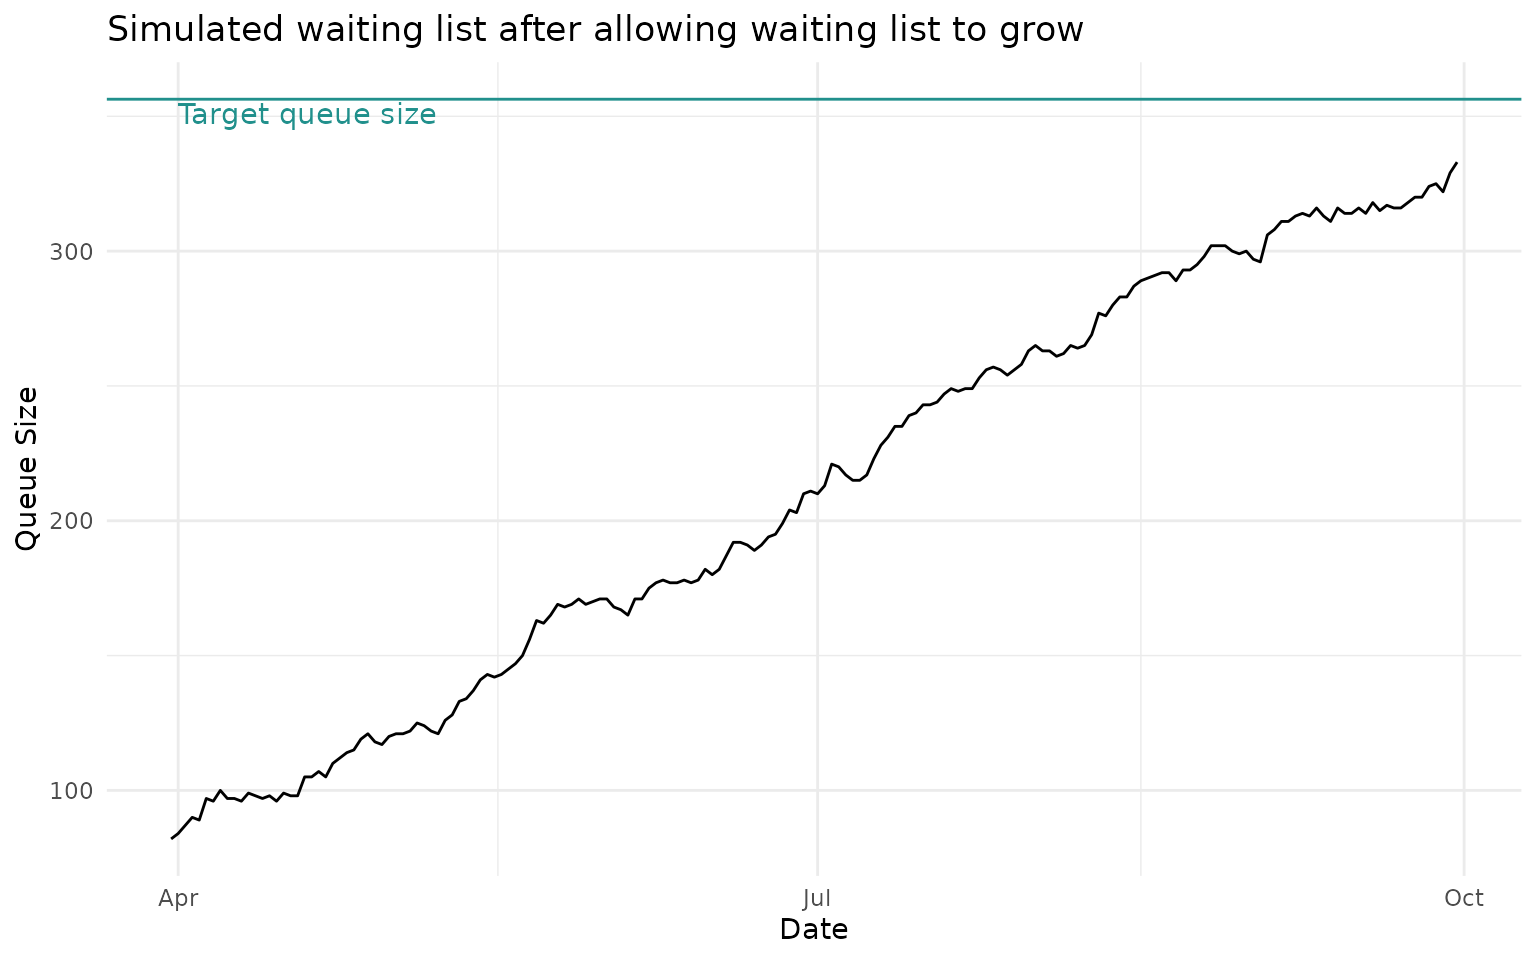
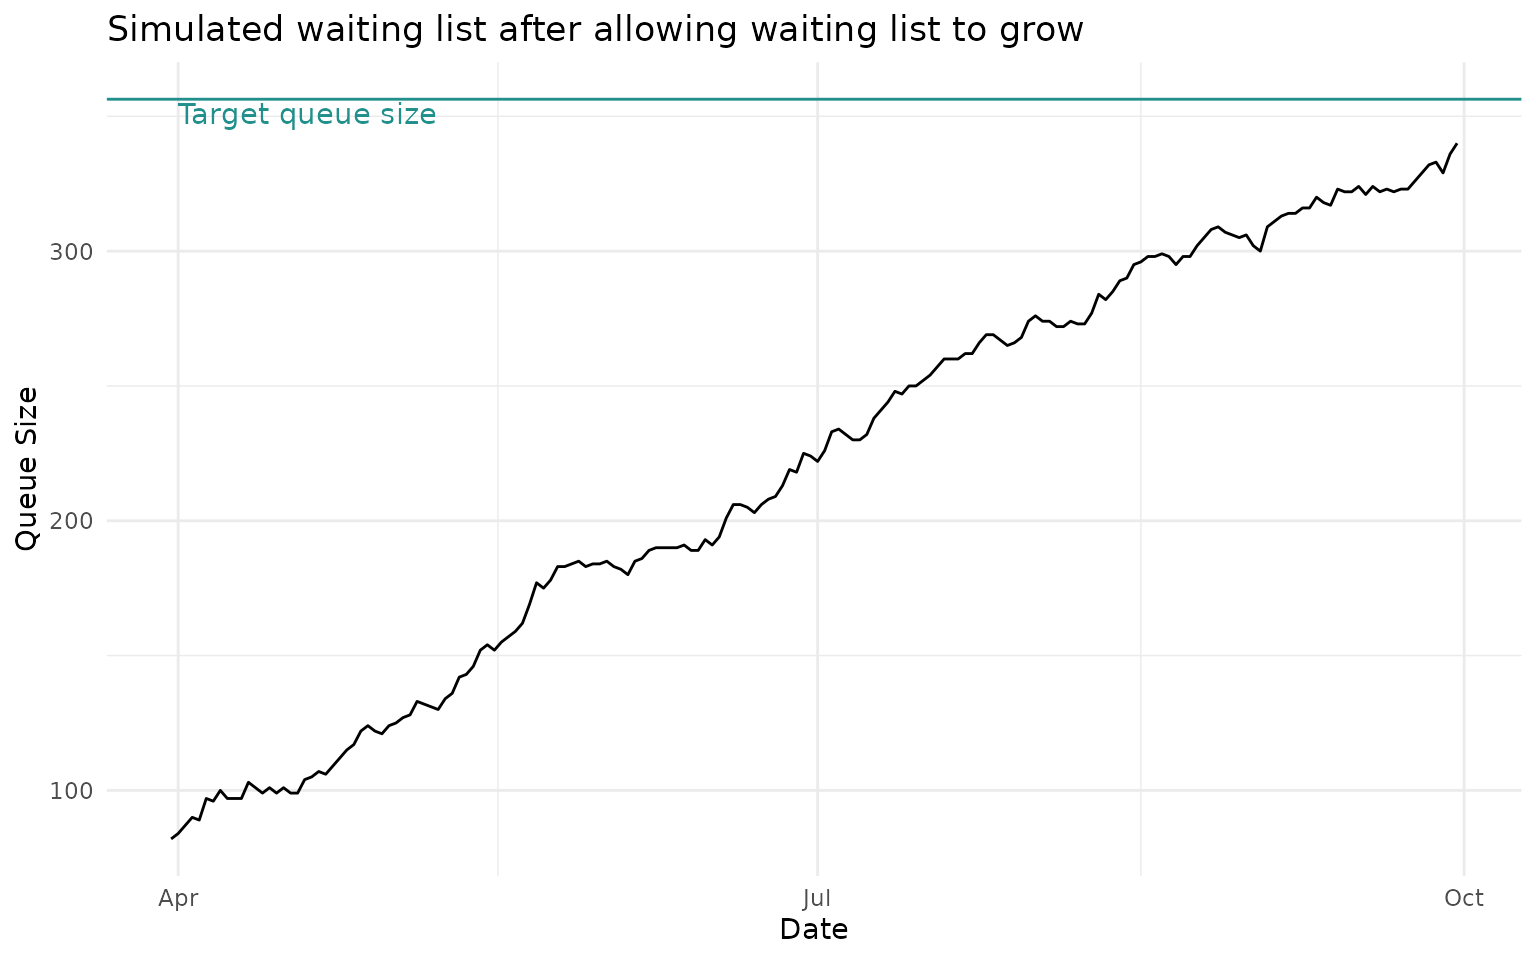
Deploying to gh-pages from @ chrismainey/NHSRwaitinglist@a95163a6bf66b35ecc7b90c4b134d31a2f3290de 🚀

diff --git a/articles/waiting_list_sim.html b/articles/waiting_list_sim.html
@@ -282,7 +282,7 @@ plot the waiting list.</p>
 <code class="sourceCode R"><span><span class="va">reduced_demand_wl</span> <span class="op">&lt;-</span></span>
 <span>  <span class="fu"><a href="../reference/wl_simulator.html">wl_simulator</a></span><span class="op">(</span>start_date <span class="op">=</span> <span class="fu"><a href="https://rdrr.io/r/base/as.Date.html" class="external-link">as.Date</a></span><span class="op">(</span><span class="st">"2023-04-01"</span><span class="op">)</span>,</span>
 <span>               end_date <span class="op">=</span> <span class="fu"><a href="https://rdrr.io/r/base/as.Date.html" class="external-link">as.Date</a></span><span class="op">(</span><span class="st">"2024-03-31"</span><span class="op">)</span>,</span>
-<span>               demand <span class="op">=</span> <span class="fl">77</span>,</span>
+<span>               demand <span class="op">=</span> <span class="fl">75</span>,</span>
 <span>               capacity <span class="op">=</span> <span class="fl">80</span>,</span>
 <span>               waiting_list <span class="op">=</span> <span class="va">current_wl1</span><span class="op">)</span></span>
 <span></span>
@@ -290,12 +290,12 @@ plot the waiting list.</p>
 <span></span>
 <span><span class="fu"><a href="https://rdrr.io/r/utils/head.html" class="external-link">tail</a></span><span class="op">(</span><span class="va">reduced_demand_queue</span><span class="op">)</span></span>
 <span><span class="co">#&gt;          dates queue_size</span></span>
-<span><span class="co">#&gt; 362 2024-03-26        654</span></span>
-<span><span class="co">#&gt; 363 2024-03-27        655</span></span>
-<span><span class="co">#&gt; 364 2024-03-28        653</span></span>
-<span><span class="co">#&gt; 365 2024-03-29        656</span></span>
-<span><span class="co">#&gt; 366 2024-03-30        652</span></span>
-<span><span class="co">#&gt; 367 2024-03-31        661</span></span></code></pre></div>
+<span><span class="co">#&gt; 362 2024-03-26        553</span></span>
+<span><span class="co">#&gt; 363 2024-03-27        554</span></span>
+<span><span class="co">#&gt; 364 2024-03-28        552</span></span>
+<span><span class="co">#&gt; 365 2024-03-29        554</span></span>
+<span><span class="co">#&gt; 366 2024-03-30        549</span></span>
+<span><span class="co">#&gt; 367 2024-03-31        558</span></span></code></pre></div>
 <p>To visualise this, we will plot the queue against time, marking the
 target queue size.</p>
 <div class="sourceCode" id="cb8"><pre class="downlit sourceCode r">
